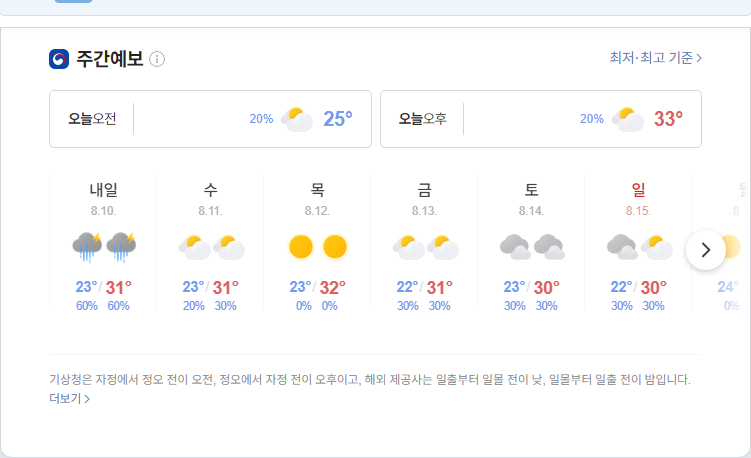
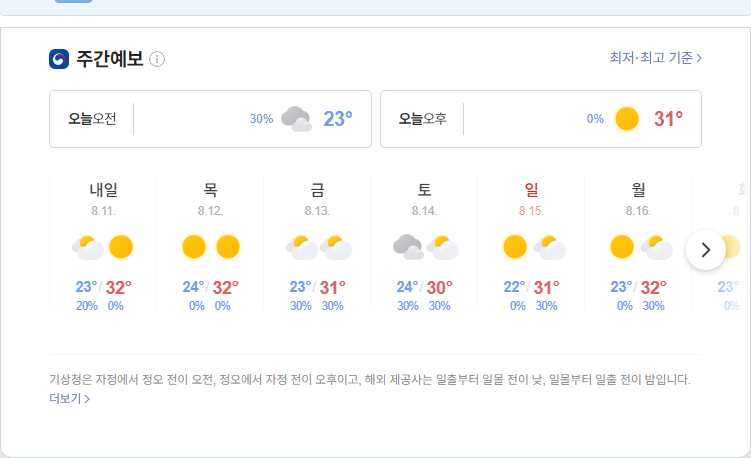
update result

diff --git a/README.md b/README.md
@@ -1,5 +1,5 @@
-##  2021-08-09 12:07:31   월요일 
-##### 날씨   -   어제보다 1° 낮아요맑음  
+##  2021-08-10 09:17:59   화요일 
+##### 날씨   -   어제보다 2° 낮아요흐림  
 <center><img src="../img/naver_weather_week.png"></center>
 ----
 ----
@@ -13,50 +13,50 @@
 ##### 세계
 <table border="1" bordercolor="blue" align = "center" >
 <tr align = "right" > <td>Item</td><td>Point</td><td>Diff</td><td>Rate</td><td>Buy</td><td>Sell</td><td>...</td>  </tr>
-<tr align = "right" > <td>DOW</td><td>35,208.51</td><td>144.26</td><td><font size="3" color="red" >0.41%</font></td><td><font size="3" color="black">0</font></td><td><font size="3" color="black">0</font></td><td>0</td>  </tr>
-<tr align = "right" > <td>NASDAQ</td><td>14,835.76</td><td>-59.36</td><td><font size="3" color="blue" >-0.4%</font></td><td><font size="3" color="black">0</font></td><td><font size="3" color="black">0</font></td><td>0</td>  </tr>
-<tr align = "right" > <td>S&P</td><td>4,436.52</td><td>7.42</td><td><font size="3" color="red" >0.17%</font></td><td><font size="3" color="black">0</font></td><td><font size="3" color="black">0</font></td><td>0</td>  </tr>
-<tr align = "right" > <td>SHANHAI</td><td>3,485.47</td><td>27.24</td><td><font size="3" color="red" >0.79%</font></td><td><font size="3" color="black">0</font></td><td><font size="3" color="black">0</font></td><td>0</td>  </tr>
-<tr align = "right" > <td>INDIA</td><td>54,277.72</td><td>-215.12</td><td><font size="3" color="blue" >-0.39%</font></td><td><font size="3" color="black">0</font></td><td><font size="3" color="black">0</font></td><td>0</td>  </tr>
+<tr align = "right" > <td>DOW</td><td>35,101.85</td><td>-106.66</td><td><font size="3" color="blue" >-0.3%</font></td><td><font size="3" color="black">0</font></td><td><font size="3" color="black">0</font></td><td>0</td>  </tr>
+<tr align = "right" > <td>NASDAQ</td><td>14,860.18</td><td>24.42</td><td><font size="3" color="red" >0.16%</font></td><td><font size="3" color="black">0</font></td><td><font size="3" color="black">0</font></td><td>0</td>  </tr>
+<tr align = "right" > <td>S&P</td><td>4,432.35</td><td>-4.17</td><td><font size="3" color="blue" >-0.09%</font></td><td><font size="3" color="black">0</font></td><td><font size="3" color="black">0</font></td><td>0</td>  </tr>
+<tr align = "right" > <td>SHANHAI</td><td>3,494.64</td><td>36.41</td><td><font size="3" color="red" >1.05%</font></td><td><font size="3" color="black">0</font></td><td><font size="3" color="black">0</font></td><td>0</td>  </tr>
+<tr align = "right" > <td>INDIA</td><td>54,402.85</td><td>125.13</td><td><font size="3" color="red" >0.23%</font></td><td><font size="3" color="black">0</font></td><td><font size="3" color="black">0</font></td><td>0</td>  </tr>
 </table>
 ----
 ##### 시장
 <table border="1" bordercolor="blue" align = "center" >
 <tr align = "right" > <td>Item</td><td>Price</td><td>Diff</td><td>Rate</td><td>Buy</td><td>Sell</td><td>...</td>  </tr>
-<tr align = "right" > <td>USD</td><td>1,144.0</td><td>-1.5</td><td><font size="3" color="blue">-0.13%</font></td><td><font size="3" color="black">1,110</font></td><td><font size="3" color="black">0</font></td><td>0</td>  </tr>
-<tr align = "right" > <td>WTI</td><td>68.28</td><td>-0.81</td><td><font size="3" color="blue">-1.17%</font></td><td><font size="3" color="black">29.0</font></td><td><font size="3" color="black">0</font></td><td>0</td>  </tr>
-<tr align = "right" > <td>GOLD</td><td>1,760.0</td><td>-45.1</td><td><font size="3" color="blue">-2.49%</font></td><td><font size="3" color="black">0</font></td><td><font size="3" color="black">0</font></td><td>0</td>  </tr>
+<tr align = "right" > <td>USD</td><td>1,147.0</td><td>1.3</td><td><font size="3" color="red">0.11%</font></td><td><font size="3" color="black">1,110</font></td><td><font size="3" color="black">0</font></td><td>0</td>  </tr>
+<tr align = "right" > <td>WTI</td><td>66.48</td><td>-1.8</td><td><font size="3" color="blue">-2.63%</font></td><td><font size="3" color="black">29.0</font></td><td><font size="3" color="black">0</font></td><td>0</td>  </tr>
+<tr align = "right" > <td>GOLD</td><td>1,723.0</td><td>-36.6</td><td><font size="3" color="blue">-2.07%</font></td><td><font size="3" color="black">0</font></td><td><font size="3" color="black">0</font></td><td>0</td>  </tr>
 </table>
 ----
 ##### 주가
 <table border="1" bordercolor="blue" align = "center" >
 <tr align = "right" > <td>Item</td><td>Price</td><td>Diff</td><td>Rate</td><td>Purchased</td><td>Sell</td><td>Buy</td>  </tr>
-<tr align = "right" > <td>한국 전력</td><td>25,300</td><td>-150</td><td><font size="3" color="blue">-0.59%</font></td><td>25,720</td><td><font size="3" color="black">27,700</font></td><td><font size="3" color="black">20,700</font></td>  </tr>
-<tr align = "right" > <td>삼성엔지니어.</td><td>23,500</td><td>50</td><td><font size="3" color="red">0.21%</font></td><td>18,935</td><td><font size="3" color="black">20,000</font></td><td><font size="3" color="black">8,000</font></td>  </tr>
-<tr align = "right" > <td>CJ CGV</td><td>29,950</td><td>-700</td><td><font size="3" color="blue">-2.28%</font></td><td>34,895</td><td><font size="3" color="black">36,000</font></td><td><font size="3" color="black">0</font></td>  </tr>
-<tr align = "right" > <td>아모레퍼시픽</td><td>227,500</td><td>-1,000</td><td><font size="3" color="blue">-0.44%</font></td><td>235,350</td><td><font size="3" color="black">240,000</font></td><td><font size="3" color="black">130,000</font></td>  </tr>
-<tr align = "right" > <td>한화</td><td>31,150</td><td>600</td><td><font size="3" color="red">1.96%</font></td><td>25,550</td><td><font size="3" color="black">26,250</font></td><td><font size="3" color="black">26,250</font></td>  </tr>
-<tr align = "right" > <td>NAVER</td><td>448,500</td><td>4,000</td><td><font size="3" color="red">0.9%</font></td><td>147,200</td><td><font size="3" color="black">386,000</font></td><td><font size="3" color="black">286,000</font></td>  </tr>
-<tr align = "right" > <td>LG 화학우</td><td>383,500</td><td>-4,000</td><td><font size="3" color="blue">-1.03%</font></td><td>202,490</td><td><font size="3" color="black">384,000</font></td><td><font size="3" color="orangered">384,000</font></td>  </tr>
-<tr align = "right" > <td>스튜디오드래.</td><td>91,300</td><td>-400</td><td><font size="3" color="blue">-0.44%</font></td><td>81,243</td><td><font size="3" color="black">85,200</font></td><td><font size="3" color="black">85,200</font></td>  </tr>
-<tr align = "right" > <td>QV미국IT</td><td>31,550</td><td>-245</td><td><font size="3" color="blue">-0.77%</font></td><td>0</td><td><font size="3" color="black">30,000</font></td><td><font size="3" color="black">20,000</font></td>  </tr>
-<tr align = "right" > <td>삼성 전자우</td><td>75,000</td><td>100</td><td><font size="3" color="red">0.13%</font></td><td>60,675</td><td><font size="3" color="black">76,000</font></td><td><font size="3" color="black">55,000</font></td>  </tr>
-<tr align = "right" > <td>LS</td><td>70,200</td><td>-1,100</td><td><font size="3" color="blue">-1.54%</font></td><td>71,900</td><td><font size="3" color="black">82,000</font></td><td><font size="3" color="black">60,000</font></td>  </tr>
-<tr align = "right" > <td>한화에어로스.</td><td>51,600</td><td>-700</td><td><font size="3" color="blue">-1.34%</font></td><td>25,700</td><td><font size="3" color="black">30,000</font></td><td><font size="3" color="black">24,000</font></td>  </tr>
-<tr align = "right" > <td>한화시스템.</td><td>17,000</td><td>-150</td><td><font size="3" color="blue">-0.87%</font></td><td>16,875</td><td><font size="3" color="black">30,000</font></td><td><font size="3" color="black">14,000</font></td>  </tr>
-<tr align = "right" > <td>카카오</td><td>148,500</td><td>3,000</td><td><font size="3" color="red">2.06%</font></td><td>405,500</td><td><font size="3" color="black">440,000</font></td><td><font size="3" color="orangered">400,000</font></td>  </tr>
-<tr align = "right" > <td>호텔 신라</td><td>93,000</td><td>-1,400</td><td><font size="3" color="blue">-1.48%</font></td><td>88,650</td><td><font size="3" color="black">100,000</font></td><td><font size="3" color="black">70,000</font></td>  </tr>
-<tr align = "right" > <td>S-Oil</td><td>94,000</td><td>-2,900</td><td><font size="3" color="blue">-2.99%</font></td><td>62,842</td><td><font size="3" color="black">100,000</font></td><td><font size="3" color="black">50,000</font></td>  </tr>
-<tr align = "right" > <td>LG전자</td><td>161,500</td><td>4,500</td><td><font size="3" color="red">2.87%</font></td><td>82,022</td><td><font size="3" color="black">100,000</font></td><td><font size="3" color="black">60,000</font></td>  </tr>
-<tr align = "right" > <td>KT&G</td><td>81,700</td><td>-500</td><td><font size="3" color="blue">-0.61%</font></td><td>79,700</td><td><font size="3" color="black">100,000</font></td><td><font size="3" color="black">70,000</font></td>  </tr>
-<tr align = "right" > <td>지역난방공사</td><td>42,400</td><td>-200</td><td><font size="3" color="blue">-0.47%</font></td><td>43,590</td><td><font size="3" color="black">60,000</font></td><td><font size="3" color="black">30,000</font></td>  </tr>
+<tr align = "right" > <td>한국 전력</td><td>25,200</td><td>-50</td><td><font size="3" color="blue">-0.2%</font></td><td>25,720</td><td><font size="3" color="black">27,700</font></td><td><font size="3" color="black">20,700</font></td>  </tr>
+<tr align = "right" > <td>삼성엔지니어.</td><td>23,950</td><td>500</td><td><font size="3" color="red">2.13%</font></td><td>18,935</td><td><font size="3" color="black">20,000</font></td><td><font size="3" color="black">8,000</font></td>  </tr>
+<tr align = "right" > <td>CJ CGV</td><td>30,450</td><td>50</td><td><font size="3" color="red">0.16%</font></td><td>34,895</td><td><font size="3" color="black">36,000</font></td><td><font size="3" color="black">0</font></td>  </tr>
+<tr align = "right" > <td>아모레퍼시픽</td><td>227,000</td><td>500</td><td><font size="3" color="red">0.22%</font></td><td>235,350</td><td><font size="3" color="black">240,000</font></td><td><font size="3" color="black">130,000</font></td>  </tr>
+<tr align = "right" > <td>한화</td><td>31,100</td><td>-50</td><td><font size="3" color="blue">-0.16%</font></td><td>25,550</td><td><font size="3" color="black">26,250</font></td><td><font size="3" color="black">26,250</font></td>  </tr>
+<tr align = "right" > <td>NAVER</td><td>448,500</td><td>1,000</td><td><font size="3" color="red">0.22%</font></td><td>147,200</td><td><font size="3" color="black">386,000</font></td><td><font size="3" color="black">286,000</font></td>  </tr>
+<tr align = "right" > <td>LG 화학우</td><td>384,500</td><td>1,000</td><td><font size="3" color="red">0.26%</font></td><td>202,490</td><td><font size="3" color="black">384,000</font></td><td><font size="3" color="black">384,000</font></td>  </tr>
+<tr align = "right" > <td>스튜디오드래.</td><td>91,400</td><td>-300</td><td><font size="3" color="blue">-0.33%</font></td><td>81,243</td><td><font size="3" color="black">85,200</font></td><td><font size="3" color="black">85,200</font></td>  </tr>
+<tr align = "right" > <td>QV미국IT</td><td>31,600</td><td>0</td><td><font size="3" color="black">0.0%</font></td><td>0</td><td><font size="3" color="black">30,000</font></td><td><font size="3" color="black">20,000</font></td>  </tr>
+<tr align = "right" > <td>삼성 전자우</td><td>74,600</td><td>-400</td><td><font size="3" color="blue">-0.53%</font></td><td>60,675</td><td><font size="3" color="black">76,000</font></td><td><font size="3" color="black">55,000</font></td>  </tr>
+<tr align = "right" > <td>LS</td><td>69,800</td><td>-300</td><td><font size="3" color="blue">-0.43%</font></td><td>71,900</td><td><font size="3" color="black">82,000</font></td><td><font size="3" color="black">60,000</font></td>  </tr>
+<tr align = "right" > <td>한화에어로스.</td><td>51,200</td><td>-400</td><td><font size="3" color="blue">-0.78%</font></td><td>25,700</td><td><font size="3" color="black">30,000</font></td><td><font size="3" color="black">24,000</font></td>  </tr>
+<tr align = "right" > <td>한화시스템.</td><td>17,000</td><td>50</td><td><font size="3" color="red">0.29%</font></td><td>16,875</td><td><font size="3" color="black">30,000</font></td><td><font size="3" color="black">14,000</font></td>  </tr>
+<tr align = "right" > <td>카카오</td><td>146,500</td><td>-1,500</td><td><font size="3" color="blue">-1.01%</font></td><td>405,500</td><td><font size="3" color="black">440,000</font></td><td><font size="3" color="orangered">400,000</font></td>  </tr>
+<tr align = "right" > <td>호텔 신라</td><td>92,700</td><td>-300</td><td><font size="3" color="blue">-0.32%</font></td><td>88,650</td><td><font size="3" color="black">100,000</font></td><td><font size="3" color="black">70,000</font></td>  </tr>
+<tr align = "right" > <td>S-Oil</td><td>94,600</td><td>0</td><td><font size="3" color="black">0.0%</font></td><td>62,842</td><td><font size="3" color="black">100,000</font></td><td><font size="3" color="black">50,000</font></td>  </tr>
+<tr align = "right" > <td>LG전자</td><td>159,000</td><td>-2,000</td><td><font size="3" color="blue">-1.24%</font></td><td>82,022</td><td><font size="3" color="black">100,000</font></td><td><font size="3" color="black">60,000</font></td>  </tr>
+<tr align = "right" > <td>KT&G</td><td>81,500</td><td>-200</td><td><font size="3" color="blue">-0.24%</font></td><td>79,700</td><td><font size="3" color="black">100,000</font></td><td><font size="3" color="black">70,000</font></td>  </tr>
+<tr align = "right" > <td>지역난방공사</td><td>42,550</td><td>-50</td><td><font size="3" color="blue">-0.12%</font></td><td>43,590</td><td><font size="3" color="black">60,000</font></td><td><font size="3" color="black">30,000</font></td>  </tr>
 <tr align = "right" > <td>맥쿼리인프라</td><td>12,300</td><td>0</td><td><font size="3" color="black">0.0%</font></td><td>12,577</td><td><font size="3" color="black">30,000</font></td><td><font size="3" color="black">10,000</font></td>  </tr>
-<tr align = "right" > <td>KOEDX은행</td><td>7,435</td><td>105</td><td><font size="3" color="red">1.43%</font></td><td>7,578</td><td><font size="3" color="black">8,825</font></td><td><font size="3" color="black">6,225</font></td>  </tr>
-<tr align = "right" > <td>글로벌럭셔리</td><td>18,250</td><td>-160</td><td><font size="3" color="blue">-0.87%</font></td><td>16,302</td><td><font size="3" color="black">20,000</font></td><td><font size="3" color="black">10,000</font></td>  </tr>
-<tr align = "right" > <td>TIRGER200건설</td><td>3,310</td><td>-25</td><td><font size="3" color="blue">-0.75%</font></td><td>3,440</td><td><font size="3" color="black">4,000</font></td><td><font size="3" color="black">3,000</font></td>  </tr>
-<tr align = "right" > <td>KODEXK미래차</td><td>10,950</td><td>5</td><td><font size="3" color="red">0.05%</font></td><td>10,955</td><td><font size="3" color="black">20,000</font></td><td><font size="3" color="black">10,000</font></td>  </tr>
-<tr align = "right" > <td>TIGER글로벌BBIG</td><td>11,680</td><td>-90</td><td><font size="3" color="blue">-0.76%</font></td><td>11,020</td><td><font size="3" color="black">20,000</font></td><td><font size="3" color="black">10,000</font></td>  </tr>
-<tr align = "right" > <td>TIGER퓨처모빌리티</td><td>11,245</td><td>130</td><td><font size="3" color="red">1.17%</font></td><td>10,695</td><td><font size="3" color="black">20,000</font></td><td><font size="3" color="black">10,000</font></td>  </tr>
-<tr align = "right" > <td>한국금융지주</td><td>98,300</td><td>1,500</td><td><font size="3" color="red">1.55%</font></td><td>0</td><td><font size="3" color="black">82,000</font></td><td><font size="3" color="black">60,000</font></td>  </tr>
+<tr align = "right" > <td>KOEDX은행</td><td>7,425</td><td>-5</td><td><font size="3" color="blue">-0.07%</font></td><td>7,578</td><td><font size="3" color="black">8,825</font></td><td><font size="3" color="black">6,225</font></td>  </tr>
+<tr align = "right" > <td>글로벌럭셔리</td><td>18,315</td><td>-55</td><td><font size="3" color="blue">-0.3%</font></td><td>16,302</td><td><font size="3" color="black">20,000</font></td><td><font size="3" color="black">10,000</font></td>  </tr>
+<tr align = "right" > <td>TIRGER200건설</td><td>3,285</td><td>-5</td><td><font size="3" color="blue">-0.15%</font></td><td>3,440</td><td><font size="3" color="black">4,000</font></td><td><font size="3" color="black">3,000</font></td>  </tr>
+<tr align = "right" > <td>KODEXK미래차</td><td>10,875</td><td>-80</td><td><font size="3" color="blue">-0.73%</font></td><td>10,955</td><td><font size="3" color="black">20,000</font></td><td><font size="3" color="black">10,000</font></td>  </tr>
+<tr align = "right" > <td>TIGER글로벌BBIG</td><td>11,720</td><td>20</td><td><font size="3" color="red">0.17%</font></td><td>11,020</td><td><font size="3" color="black">20,000</font></td><td><font size="3" color="black">10,000</font></td>  </tr>
+<tr align = "right" > <td>TIGER퓨처모빌리티</td><td>11,220</td><td>-15</td><td><font size="3" color="blue">-0.13%</font></td><td>10,695</td><td><font size="3" color="black">20,000</font></td><td><font size="3" color="black">10,000</font></td>  </tr>
+<tr align = "right" > <td>한국금융지주</td><td>97,800</td><td>600</td><td><font size="3" color="red">0.62%</font></td><td>0</td><td><font size="3" color="black">82,000</font></td><td><font size="3" color="black">60,000</font></td>  </tr>
 </table>
 ----
